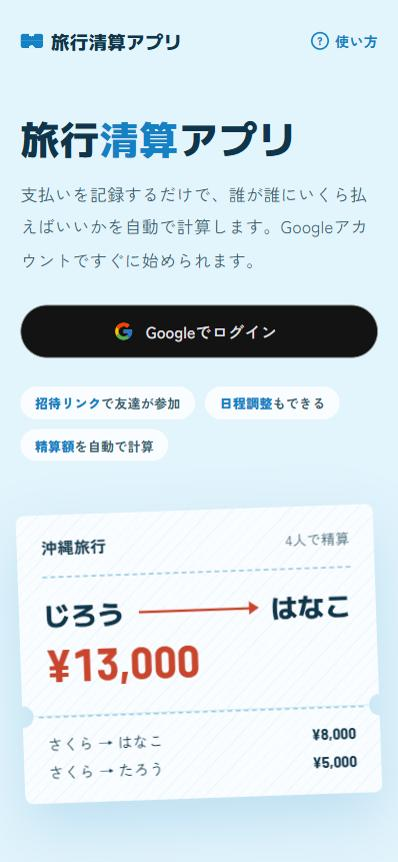
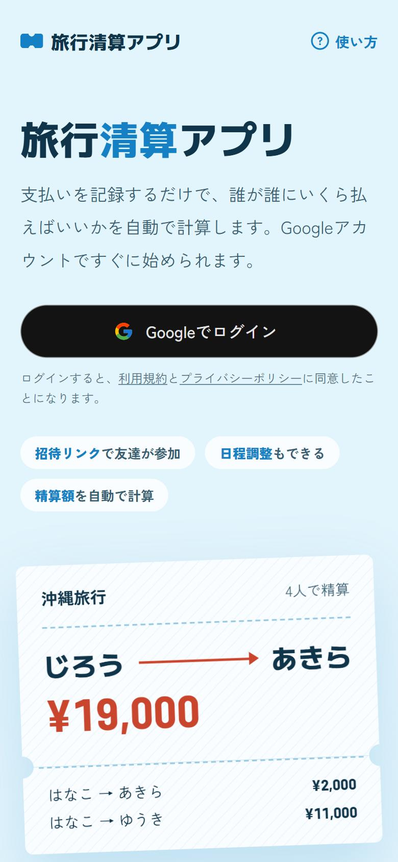
add terms and privacy pages and a shared footer

diff --git a/src/app/privacy/page.js b/src/app/privacy/page.js
@@ -1,0 +1,97 @@
+import LegalPage from "@/components/LegalPage";
+import { REPOSITORY_URL } from "@/components/SiteFooter";
+
+export const metadata = {
+  title: "プライバシーポリシー | 旅行清算アプリ",
+};
+
+const sections = [
+  {
+    title: "取得する情報",
+    body: (
+      <>
+        <p>このアプリでは、次の情報を取得し、保存します。</p>
+        <ul>
+          <li>Googleでログインしたときに Google から受け取る情報：名前、メールアドレス、プロフィール画像、Googleアカウントの識別子、ログインに使うトークン</li>
+          <li>利用者が入力した情報：ニックネーム、プロジェクト（タイトル・目的地・日程）、支払いの記録、行ける日・日程への回答、旅行の予定</li>
+          <li>ログイン状態を保つための情報（セッション）</li>
+        </ul>
+      </>
+    ),
+  },
+  {
+    title: "利用目的",
+    body: (
+      <ul>
+        <li>ログインと、本人の確認のため</li>
+        <li>プロジェクトのメンバーどうしで、日程・支払い・精算・予定を共有するため</li>
+        <li>不具合の調査や、アプリの改善のため</li>
+      </ul>
+    ),
+  },
+  {
+    title: "ほかのメンバーに表示される情報",
+    body: (
+      <p>
+        ニックネームと、プロジェクトに入力した内容（支払い・行ける日・回答・予定など）は、同じプロジェクトのメンバーに表示されます。メールアドレスやプロフィール画像は、ほかの利用者には表示しません。
+      </p>
+    ),
+  },
+  {
+    title: "外部のサービス",
+    body: (
+      <>
+        <p>アプリの運営のために、次のサービスを使っています。情報はこれらのサービスのサーバーに保存・送信されます。</p>
+        <ul>
+          <li>Google（ログイン、Google Fonts による文字の表示）</li>
+          <li>Vercel（アプリの公開・実行）</li>
+          <li>Neon（データベース。シンガポールのサーバー）</li>
+        </ul>
+        <p>アクセス解析や広告のためのツールは使っていません。</p>
+      </>
+    ),
+  },
+  {
+    title: "第三者への提供",
+    body: <p>法令にもとづく場合を除き、取得した情報を本人の同意なく第三者に提供することはありません。</p>,
+  },
+  {
+    title: "Cookie",
+    body: <p>ログイン状態を保つために Cookie を使います。ブラウザの設定で Cookie を無効にすると、ログインできなくなります。</p>,
+  },
+  {
+    title: "情報の削除",
+    body: (
+      <p>
+        プロジェクトは、作成者が削除できます。削除すると、そのプロジェクトの支払い・日程・予定もすべて削除されます。アカウントの情報の削除を希望する場合は、下の問い合わせ先からご連絡ください。
+      </p>
+    ),
+  },
+  {
+    title: "問い合わせ先",
+    body: (
+      <p>
+        このアプリは個人で開発しています。お問い合わせは、
+        <a href={`${REPOSITORY_URL}/issues`} target="_blank" rel="noreferrer" className="font-bold text-primary underline">
+          GitHub のリポジトリ
+        </a>
+        からお願いします。
+      </p>
+    ),
+  },
+  {
+    title: "改定",
+    body: <p>このポリシーは、必要に応じて改定することがあります。改定したときは、このページでお知らせします。</p>,
+  },
+];
+
+export default function PrivacyPage() {
+  return (
+    <LegalPage
+      title="プライバシーポリシー"
+      intro="旅行清算アプリ（以下「このアプリ」）が、利用者の情報をどのように扱うかを説明します。"
+      sections={sections}
+      updatedAt="2026年11月21日"
+    />
+  );
+}

diff --git a/src/app/terms/page.js b/src/app/terms/page.js
@@ -1,0 +1,89 @@
+import Link from "next/link";
+import LegalPage from "@/components/LegalPage";
+
+export const metadata = {
+  title: "利用規約 | 旅行清算アプリ",
+};
+
+const sections = [
+  {
+    title: "この規約について",
+    body: (
+      <p>
+        この規約は、旅行清算アプリ（以下「このアプリ」）を使うときの決まりです。このアプリを使った時点で、この規約に同意したものとします。
+      </p>
+    ),
+  },
+  {
+    title: "このアプリについて",
+    body: (
+      <p>
+        このアプリは、旅行の日程調整・支払いの記録・精算の計算をするための、個人で開発した無料のアプリです。学習とポートフォリオを目的として運営しています。
+      </p>
+    ),
+  },
+  {
+    title: "アカウント",
+    body: (
+      <p>
+        このアプリには、Googleアカウントでログインします。自分のアカウントは、自分で管理してください。情報の扱いは
+        <Link href="/privacy" className="font-bold text-primary underline">
+          プライバシーポリシー
+        </Link>
+        のとおりです。
+      </p>
+    ),
+  },
+  {
+    title: "禁止すること",
+    body: (
+      <ul>
+        <li>法令や公序良俗に反すること</li>
+        <li>ほかの人になりすますこと、ほかの人のアカウントを使うこと</li>
+        <li>ほかの利用者が嫌がる内容や、個人を傷つける内容を書き込むこと</li>
+        <li>このアプリのサーバーに過度な負荷をかけること、不正にアクセスすること</li>
+      </ul>
+    ),
+  },
+  {
+    title: "精算の計算について",
+    body: (
+      <p>
+        このアプリが表示する精算の金額は、記録された支払いをもとにした目安です。実際のお金のやりとりは、メンバーどうしで確かめたうえで行ってください。お金のやりとりで生じたトラブルについて、運営者は責任を負いません。
+      </p>
+    ),
+  },
+  {
+    title: "アプリの変更・停止",
+    body: (
+      <p>
+        運営者は、事前に知らせることなく、このアプリの内容を変えたり、提供を止めたりすることがあります。保存したデータが失われる可能性もあるため、大事な記録は別にも残しておいてください。
+      </p>
+    ),
+  },
+  {
+    title: "免責",
+    body: (
+      <p>このアプリは現状のまま提供します。このアプリを使ったことで生じた損害について、運営者は、故意または重大な過失がある場合を除き、責任を負いません。</p>
+    ),
+  },
+  {
+    title: "規約の変更",
+    body: <p>この規約は、必要に応じて変更することがあります。変更したときは、このページでお知らせします。</p>,
+  },
+  {
+    title: "準拠法",
+    body: <p>この規約は、日本の法律にもとづいて解釈します。</p>,
+  },
+];
+
+export default function TermsPage() {
+  return (
+    <LegalPage
+      title="利用規約"
+      intro="旅行清算アプリを使うときの決まりです。"
+      sections={sections}
+      updatedAt="2026年11月21日"
+    />
+  );
+}

diff --git a/src/components/SiteFooter.js b/src/components/SiteFooter.js
@@ -1,0 +1,38 @@
+import Link from "next/link";
+
+const links = [
+  { href: "/guide", label: "使い方" },
+  { href: "/terms", label: "利用規約" },
+  { href: "/privacy", label: "プライバシーポリシー" },
+];
+
+export const REPOSITORY_URL = "https://github.com/MiyazakiTakumi-724/travel-app";
+
+// 全ページ共通のフッター。使い方・利用規約・プライバシーポリシーとソースコードへのリンクを置く
+export default function SiteFooter() {
+  return (
+    <footer className="mx-auto flex w-full max-w-280 flex-col gap-3 border-t border-line-soft px-5 py-6 text-[13px] text-ink-muted sm:flex-row sm:items-center sm:justify-between sm:px-6">
+      <nav aria-label="このサイトについて">
+        <ul className="flex flex-wrap gap-x-5 gap-y-1">
+          {links.map((link) => (
+            <li key={link.href}>
+              <Link href={link.href} className="inline-flex min-h-8 items-center font-medium transition-colors hover:text-primary">
+                {link.label}
+              </Link>
+            </li>
+          ))}
+          <li>
+            <a
+              href={REPOSITORY_URL}
+              target="_blank"
+              rel="noreferrer"
+              className="inline-flex min-h-8 items-center font-medium transition-colors hover:text-primary">
+              ソースコード（GitHub）
+            </a>
+          </li>
+        </ul>
+      </nav>
+      <p>© 2026 旅行清算アプリ（個人開発）</p>
+    </footer>
+  );
+}

diff --git a/src/components/LegalPage.js b/src/components/LegalPage.js
@@ -1,0 +1,40 @@
+import Link from "next/link";
+import SiteHeader from "./SiteHeader";
+import SiteFooter from "./SiteFooter";
+
+// 利用規約・プライバシーポリシーの共通の枠。sections は [{ title, body }]
+export default function LegalPage({ title, intro, sections, updatedAt }) {
+  return (
+    <div className="flex min-h-screen flex-col">
+      <SiteHeader logoHref="/">
+        <Link
+          href="/"
+          className="inline-flex min-h-11 items-center text-sm font-medium text-ink-muted transition-colors hover:text-primary">
+          ← トップへ
+        </Link>
+      </SiteHeader>
+
+      <main className="mx-auto w-full max-w-170 flex-1 px-5 pt-6 pb-16 sm:px-6 sm:pt-10">
+        <h1 className="heading text-[clamp(28px,4vw,36px)] leading-tight">{title}</h1>
+        <p className="mt-3 leading-[1.85] text-ink-sub">{intro}</p>
+
+        <ol className="mt-8 flex flex-col gap-7">
+          {sections.map((section, index) => (
+            <li key={section.title}>
+              <h2 className="heading text-lg">
+                {index + 1}. {section.title}
+              </h2>
+              <div className="mt-2 flex flex-col gap-2 text-[15px] leading-[1.85] text-ink-sub [&_li]:ml-5 [&_li]:list-disc">
+                {section.body}
+              </div>
+            </li>
+          ))}
+        </ol>
+
+        <p className="mt-10 text-sm text-ink-muted">制定日：{updatedAt}</p>
+      </main>
+
+      <SiteFooter />
+    </div>
+  );
+}

diff --git a/src/app/page.js b/src/app/page.js
@@ -3,6 +3,7 @@ import { redirect } from "next/navigation";
 import { auth, signIn } from "@/auth";
 import SiteHeader, { GuideLink } from "@/components/SiteHeader";
 import { GoogleIcon } from "@/components/icons";
+import SiteFooter from "@/components/SiteFooter";
 
 const steps = [
   {
@@ -87,6 +88,13 @@ export default async function Home({ searchParams }) {
             </p>
             <div className="mt-7">
               <GoogleSignInButton action={signInWithGoogle} />
+              <p className="mt-2.5 text-xs leading-relaxed text-ink-muted">
+                ログインすると、
+                <Link href="/terms" className="underline hover:text-primary">利用規約</Link>
+                と
+                <Link href="/privacy" className="underline hover:text-primary">プライバシーポリシー</Link>
+                に同意したことになります。
+              </p>
             </div>
             <ul className="mt-7 flex flex-wrap gap-2.5">
               {points.map(([strong, rest]) => (
@@ -169,9 +177,7 @@ export default async function Home({ searchParams }) {
         </section>
       </main>
 
-      <footer className="mx-auto w-full max-w-280 px-5 py-6 text-[13px] text-ink-muted sm:px-6">
-        © 旅行清算アプリ
-      </footer>
+      <SiteFooter />
     </div>
   );
 }

diff --git a/src/app/projects/ProjectsList.js b/src/app/projects/ProjectsList.js
@@ -5,6 +5,7 @@ import { useRouter } from "next/navigation";
 import { signOut } from "next-auth/react";
 import { createProject } from "./actions";
 import SiteHeader, { GuideLink } from "@/components/SiteHeader";
+import SiteFooter from "@/components/SiteFooter";
 import Modal, { ModalActions } from "@/components/Modal";
 import ProjectFormFields from "@/components/ProjectFormFields";
 import { PlusIcon } from "@/components/icons";
@@ -115,6 +116,7 @@ export default function ProjectsList({ projects }) {
                     </Link>
                 </div>
             </main>
+            <SiteFooter />
 
             {isOpen && (
                 <Modal title="新しいプロジェクトを作成" onClose={() => setisOpen(false)}>

diff --git a/src/app/not-found.js b/src/app/not-found.js
@@ -1,6 +1,7 @@
 import Link from "next/link";
 import { auth } from "@/auth";
 import SiteHeader from "@/components/SiteHeader";
+import SiteFooter from "@/components/SiteFooter";
 import { primaryButtonClass } from "@/components/ui";
 
 export const metadata = {
@@ -27,6 +28,7 @@ export default async function NotFound() {
           {home.label}
         </Link>
       </main>
+      <SiteFooter />
     </div>
   );
 }

diff --git a/src/app/guide/page.js b/src/app/guide/page.js
@@ -1,6 +1,7 @@
 import Link from "next/link";
 import { auth } from "@/auth";
 import SiteHeader from "@/components/SiteHeader";
+import SiteFooter from "@/components/SiteFooter";
 import { formatYen } from "@/lib/format";
 
 export const metadata = {
@@ -171,6 +172,7 @@ export default async function GuidePage() {
           </ol>
         </div>
       </main>
+      <SiteFooter />
     </div>
   );
 }

diff --git a/README.md b/README.md
@@ -193,6 +193,7 @@ src/
 ├── app/
 │   ├── page.js               トップページ（ログイン）
 │   ├── guide/                使い方ページ
+│   ├── terms/ privacy/       利用規約・プライバシーポリシー
 │   ├── projects/             プロジェクトの一覧・作成
 │   │   └── [id]/             プロジェクトの詳細（日程調整・支払い・精算・メンバー）
 │   ├── invite/[projectId]/   招待URLからの参加
